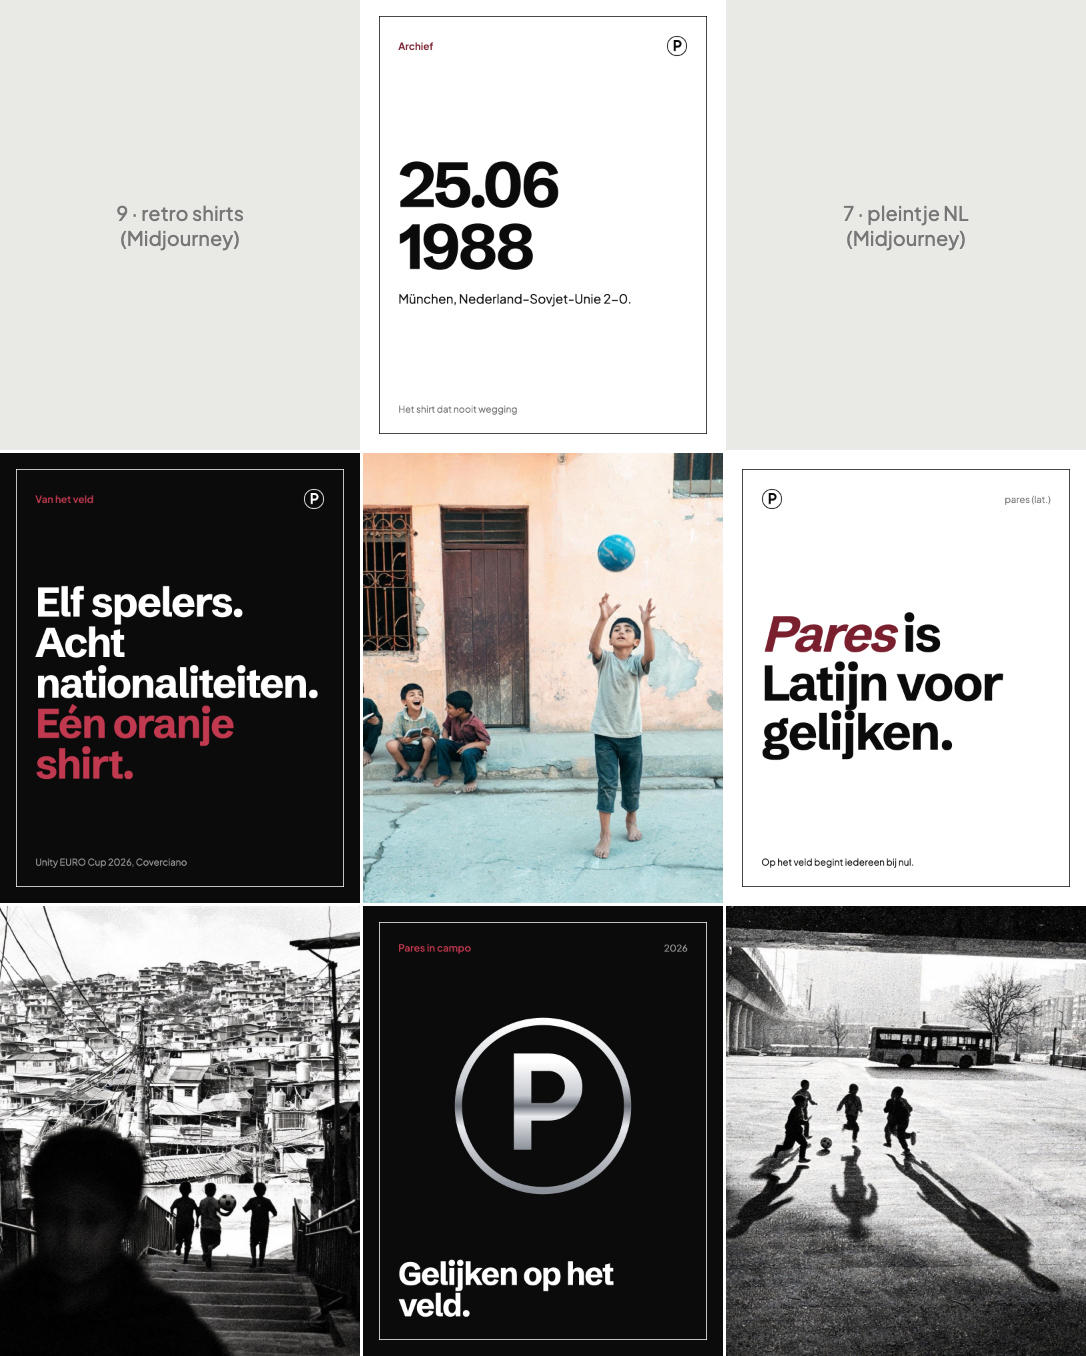
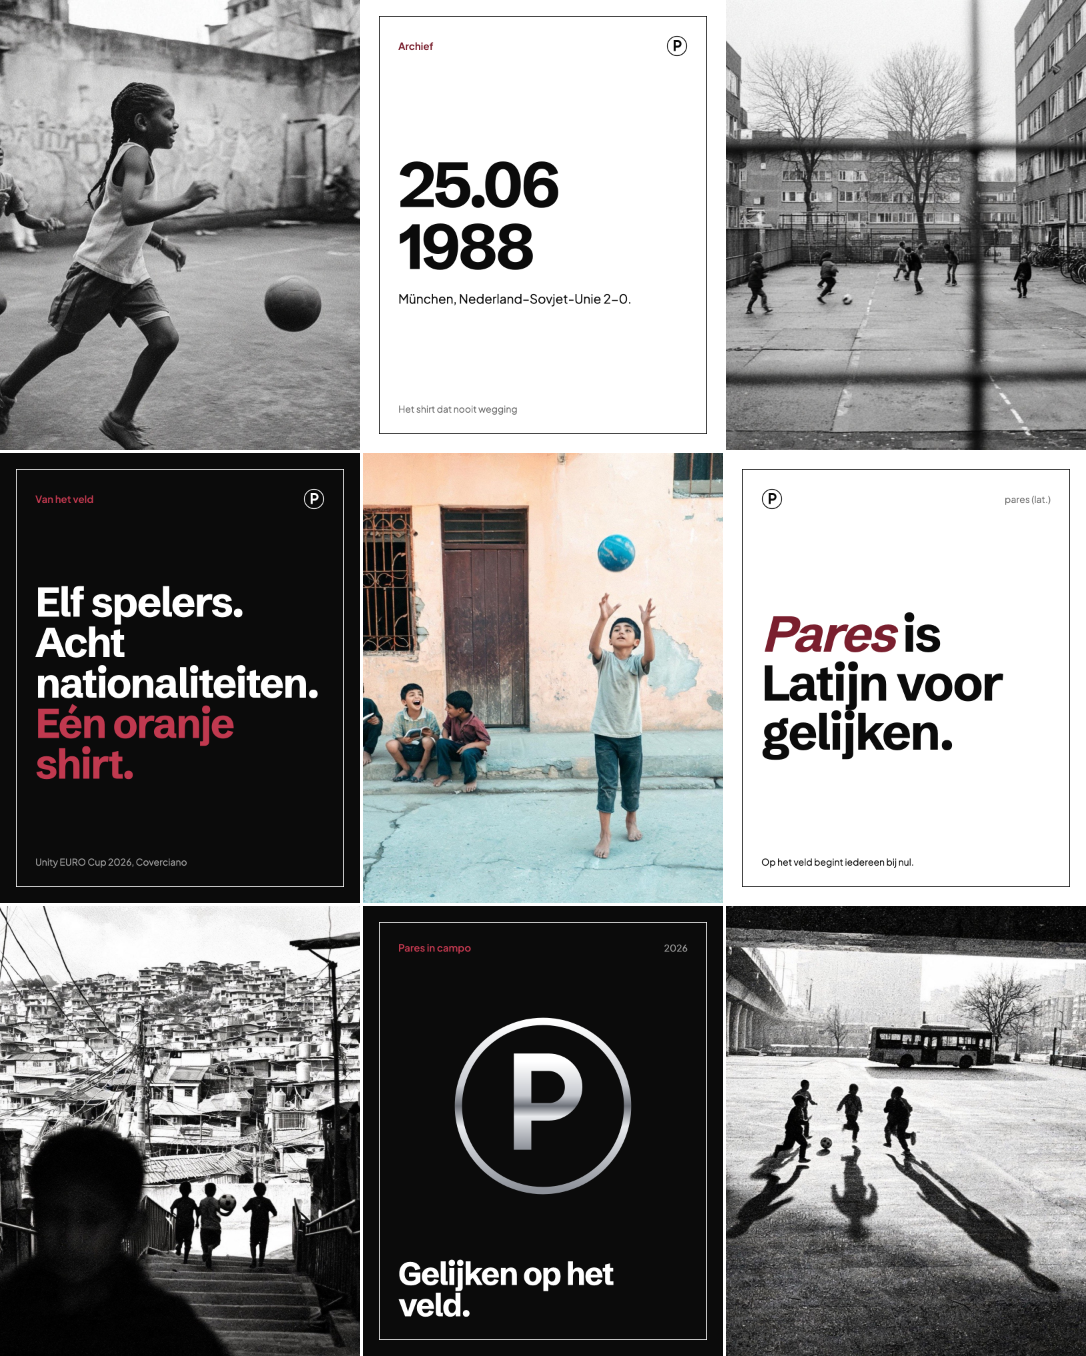
Midjourney-beelden: verhalen Meppel en 1988, Instagram-posts 7 t/m 13

Changed region(s): [[0.0, 0.0, 0.3343, 0.3407], [0.6685, 0.0, 1.0, 0.3407]]

diff --git a/docs/instagram/src/raster.html b/docs/instagram/src/raster.html
@@ -5,9 +5,9 @@ body{margin:0;background:#fff;width:1086px;font-family:'Plus Jakarta Sans',sans-
 .g div{width:360px;height:450px;background-size:cover;background-position:center}
 .ph{background:#e9e9e6;display:flex;align-items:center;justify-content:center;text-align:center;color:#777;font-size:20px;padding:30px;box-sizing:border-box}
 </style></head><body><div class="g">
-<div class="ph">9 · retro shirts<br>(Midjourney)</div>
+<div style="background-image:url(../posts/09-meisjes-court.jpg)"></div>
 <div style="background-image:url(../posts/08-archief.png)"></div>
-<div class="ph">7 · pleintje NL<br>(Midjourney)</div>
+<div style="background-image:url(../posts/07-pleintje-hek.jpg)"></div>
 <div style="background-image:url(../posts/06-unity.png)"></div>
 <div style="background-image:url(../posts/05-havana.jpg)"></div>
 <div style="background-image:url(../posts/04-latijn.png)"></div>

diff --git a/docs/instagram/captions.md b/docs/instagram/captions.md
@@ -80,8 +80,8 @@ Bestand: `posts/06-unity.png`
 >
 > #pares #unityeurocup #voetbal
 
-## 7. Foto: pleintje in Nederland (Midjourney-beeld 2)
-Bestand: nog maken met prompt 2 uit `docs/midjourney-prompts.md`, bijsnijden naar 4:5
+## 7. Foto: pleintje achter het hek
+Bestand: `posts/07-pleintje-hek.jpg`
 
 > In Meppel-Haveltermade vroegen de kinderen zelf om een nieuw veldje. Nu ligt er een Cruyff Court, met voetbal en 3x3-basketbal, de sporten die in de wijk het meest gespeeld worden.
 >
@@ -100,13 +100,26 @@ Bestand: `posts/08-archief.png`
 >
 > #pares #oranje1988 #retrovoetbalshirts
 
-## 9. Foto: retro shirts (Midjourney-beeld 1)
-Bestand: nog maken met prompt 1 uit `docs/midjourney-prompts.md`, bijsnijden naar 4:5
+## 9. Foto: meisjes op het court
+Bestand: `posts/09-meisjes-court.jpg`
 
-> Iedereen heeft er een. Het shirt dat je nooit weggooit, ook al past het al jaren niet meer.
+> Ze was de snelste van het plein. Niemand hoefde dat uit te leggen.
 >
-> Welk shirt is dat bij jou?
+> Op het veld word je gekozen omdat je goed bent. Niet omdat je een jongen bent, of een meisje.
+>
+> Wie was bij jou de snelste van het plein?
 >
 > Beeld gemaakt met AI.
 >
-> #pares #retrovoetbalshirts #voetbalcultuur
+> #pares #meidenvoetbal #straatvoetbal
+
+---
+
+## Klaar voor daarna (week 3 en 4)
+
+- `posts/10-varzea.jpg`: várzea in Brazilië. Bij een verhaal in de rubriek Wereldvoetbal.
+- `posts/11-kooi-nacht-mist.jpg`: kooi bij nacht in de mist. Caption: "Het licht gaat om tien uur uit. Tot die tijd wordt er gespeeld."
+- `posts/12-kooi-nacht-hek.jpg`: kooi bij nacht achter het hek. Als tweede beeld in een carrousel met 11.
+- `posts/13-bal-krijt.jpg`: bal met krijt. Bij een archiefpost, of als laatste beeld in de carrousel over 1988.
+
+Bewaard voor later: het idee "Welk shirt gooi jij nooit weg?" (er was nog geen goed retro-shirtsbeeld).

diff --git a/src/content/verhalen/oranje-shirt-1988.md b/src/content/verhalen/oranje-shirt-1988.md
@@ -2,6 +2,9 @@
 title: Het oranje shirt van 1988
 description: Waarom het shirt van het EK 1988 nog steeds op pleintjes, in kroegen en op festivals te zien is.
 date: 2026-10-13
+image: ../../assets/beeld/bal-krijt.jpg
+imageAlt: Een oude leren bal tegen een bakstenen muur naast een met krijt getekend doel
+imageAi: true
 ---
 
 Op 25 juni 1988 won Nederland in München de finale van het EK van de Sovjet-Unie, met 2-0. Ruud Gullit kopte de eerste binnen. Marco van Basten schoot de tweede in een boog over Rinat Dasajev, vanaf een plek waar niemand had verwacht dat hij zou schieten. Het was de eerste grote prijs voor het Nederlands elftal.

diff --git a/src/content/verhalen/cruyff-court-meppel.md b/src/content/verhalen/cruyff-court-meppel.md
@@ -2,6 +2,9 @@
 title: Het veldje waar de buurt zelf om vroeg
 description: In Meppel-Haveltermade kwam een nieuw Cruyff Court omdat bewoners en kinderen erom vroegen. Soufiane Touzani opende het.
 date: 2026-10-14
+image: ../../assets/beeld/pleintje-hek.jpg
+imageAlt: Kinderen voetballen op een betonnen pleintje tussen bakstenen flats, gezien door een hek
+imageAi: true
 ---
 
 Op de plek van een oud voetbalveldje in Haveltermade, een wijk in Meppel, ligt sinds juni een nieuw Cruyff Court. Midden in de buurt, vlak bij de scholen.
